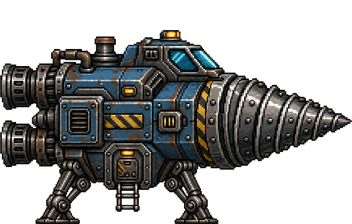
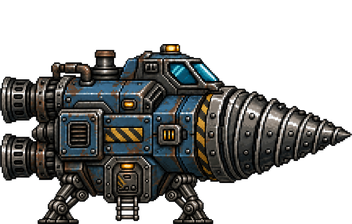
fix: shorten ship landing struts

diff --git a/src/scenes/GameScene.ts b/src/scenes/GameScene.ts
@@ -24,7 +24,7 @@ import { atlasFrame, tileKey, worldToTile } from '../utils/tileMath';
 type CursorKeys = Phaser.Types.Input.Keyboard.CursorKeys;
 type Facing = 'east' | 'west';
 
-const GENERATED_ASSET_VERSION = 'tunnel-bg-crop-20260501-2033';
+const GENERATED_ASSET_VERSION = 'ship-shorter-legs-20260501-2037';
 
 export class GameScene extends Phaser.Scene {
   private generator = new GravityDigLevelGenerator();
